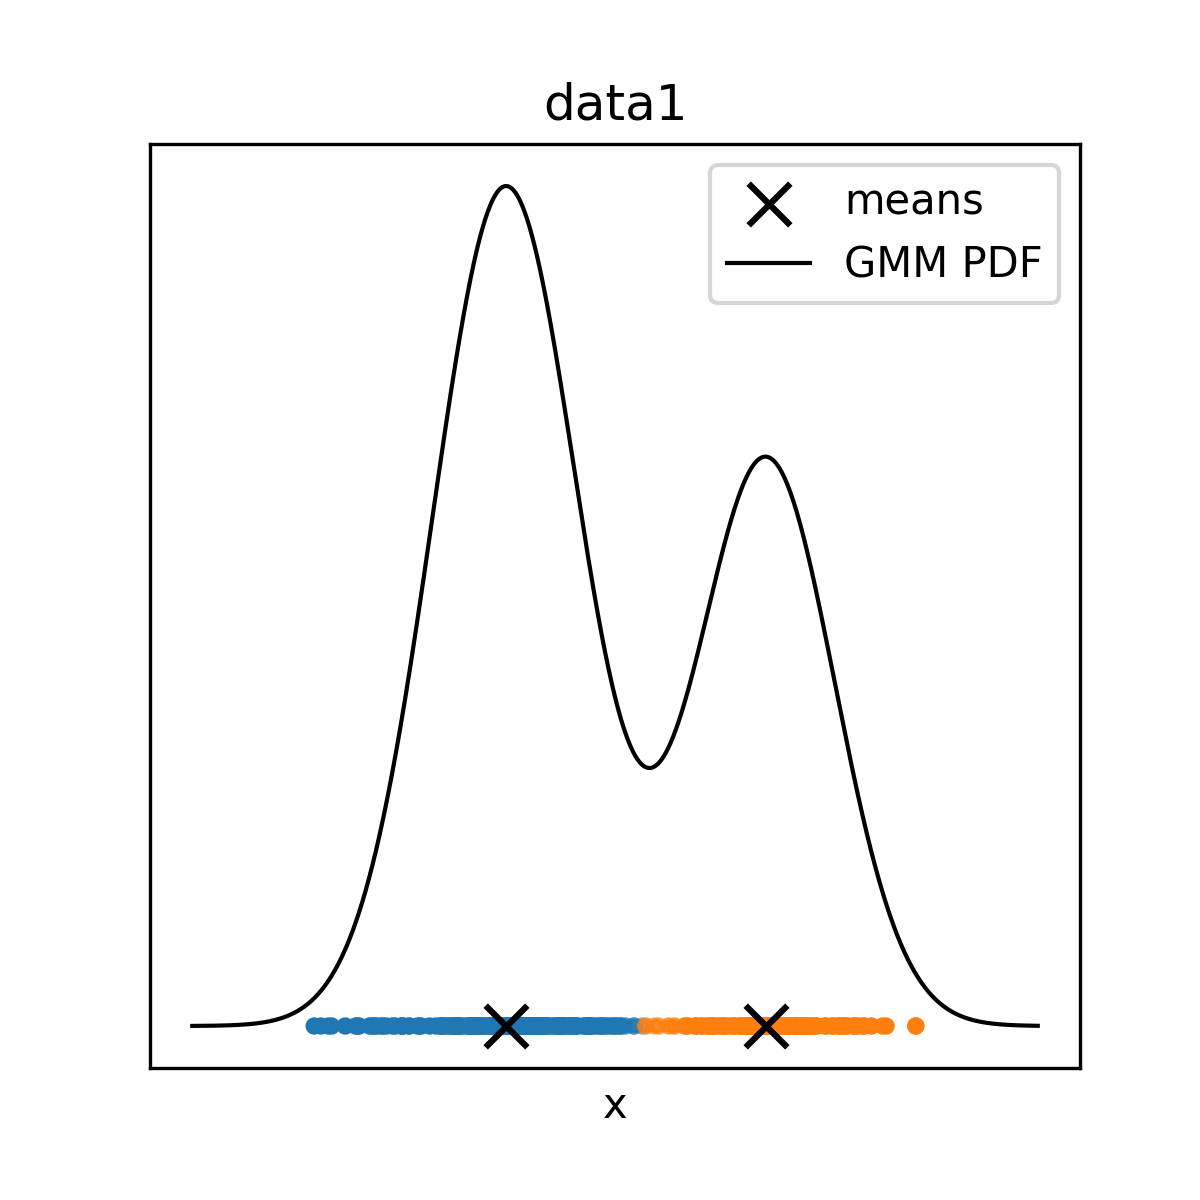
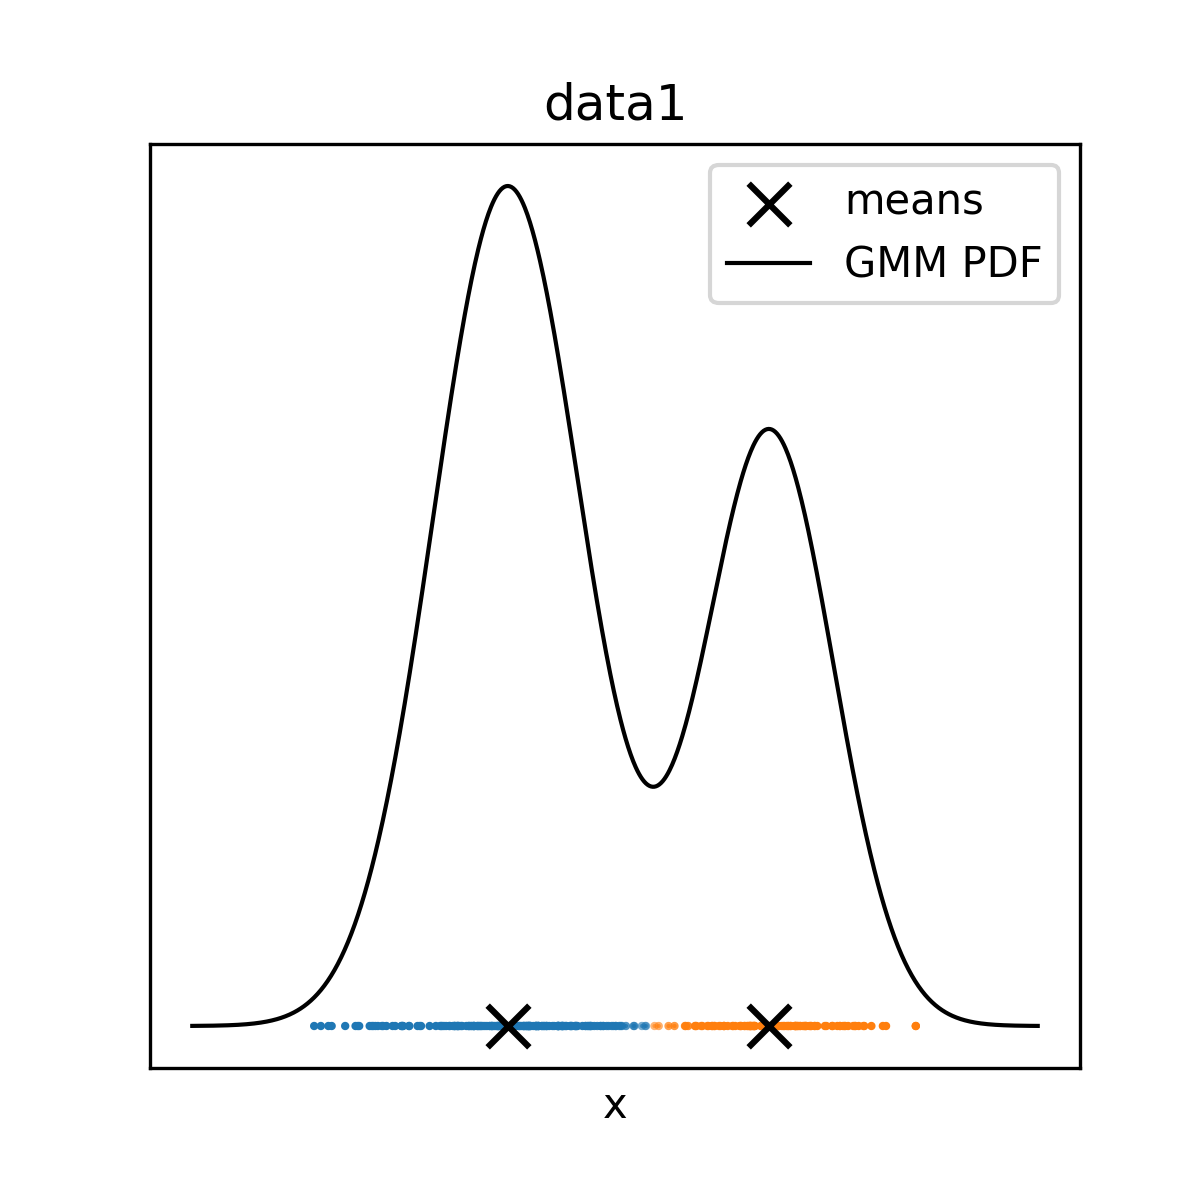
HDI描画

diff --git a/ex5/t_futagami/tmp.py b/ex5/t_futagami/tmp.py
@@ -3,10 +3,10 @@ from collections import Counter
 import fire
 import matplotlib.pyplot as plt
 import numpy as np
-from matplotlib.patches import Ellipse
+from matplotlib import colors
 from numpy import linalg as la
 from scipy.special import digamma, logsumexp
-from scipy.stats import chi2, multivariate_normal
+from scipy.stats import multivariate_normal
 
 
 class GMMVB:
@@ -198,12 +198,11 @@ class GMMVB:
                 X[idx, 0],
                 np.zeros_like(X[idx, 0]),
                 color=cols,
-                s=1,
+                s=10,
                 marker="o",
             )
             z = 1.96  # 95% confidence interval
-            cov = la.pinv(self.nu[label] * self.W[label])
-            sigma = np.sqrt(cov[0, 0])
+            sigma = np.sqrt(self.W[label, 0, 0])
             hdi = (
                 self.m[label, 0] - z * sigma,
                 self.m[label, 0] + z * sigma,
@@ -228,7 +227,7 @@ class GMMVB:
         )
 
         ax.set_xlabel("x")
-        ax.set_title("data")
+        ax.set_title("data1")
         ax.set_ylim(-1, 1)
         ax.legend()
         fig.savefig("./figs/clusters.png")
@@ -261,40 +260,16 @@ class GMMVB:
                 X[idx, 0],
                 X[idx, 1],
                 color=cols,
-                s=1,
+                s=10,
                 marker="o",
             )
         # Plot the means of each cluster
         means = self.m[label_frequency_desc, :]  # (K, D)
         ax.scatter(means[:, 0], means[:, 1], color="black", marker="x", s=100, label="means")
-        # HDI ellipses (95% interval)
-        chi2_val = chi2.ppf(0.95, df=2)
-        for order, label in enumerate(label_frequency_desc):
-            # approximate covariance from posterior precision
-            cov = la.pinv(self.nu[label] * self.W[label])
-            # eigen-decomposition
-            eigvals, eigvecs = np.linalg.eigh(cov)
-            idx_sort = eigvals.argsort()[::-1]
-            eigvals, eigvecs = eigvals[idx_sort], eigvecs[:, idx_sort]
-            # ellipse params
-            width, height = 2 * np.sqrt(eigvals * chi2_val)
-            angle = np.degrees(np.arctan2(eigvecs[1, 0], eigvecs[0, 0]))
-            legend = "HDI" if order == 0 else None
-            ellipse = Ellipse(
-                self.m[label],
-                width,
-                height,
-                angle=angle,
-                edgecolor=cm(order),
-                facecolor="none",
-                lw=1.5,
-                label=legend,
-            )
-            ax.add_patch(ellipse)
         ax.set_xlabel("x1")
         ax.set_ylabel("x2")
         ax.legend()
-        ax.set_title("data")
+        ax.set_title("data3")
         fig.savefig("./figs/clusters.png")
 
     def execute(self, X, iter_max, thr):
